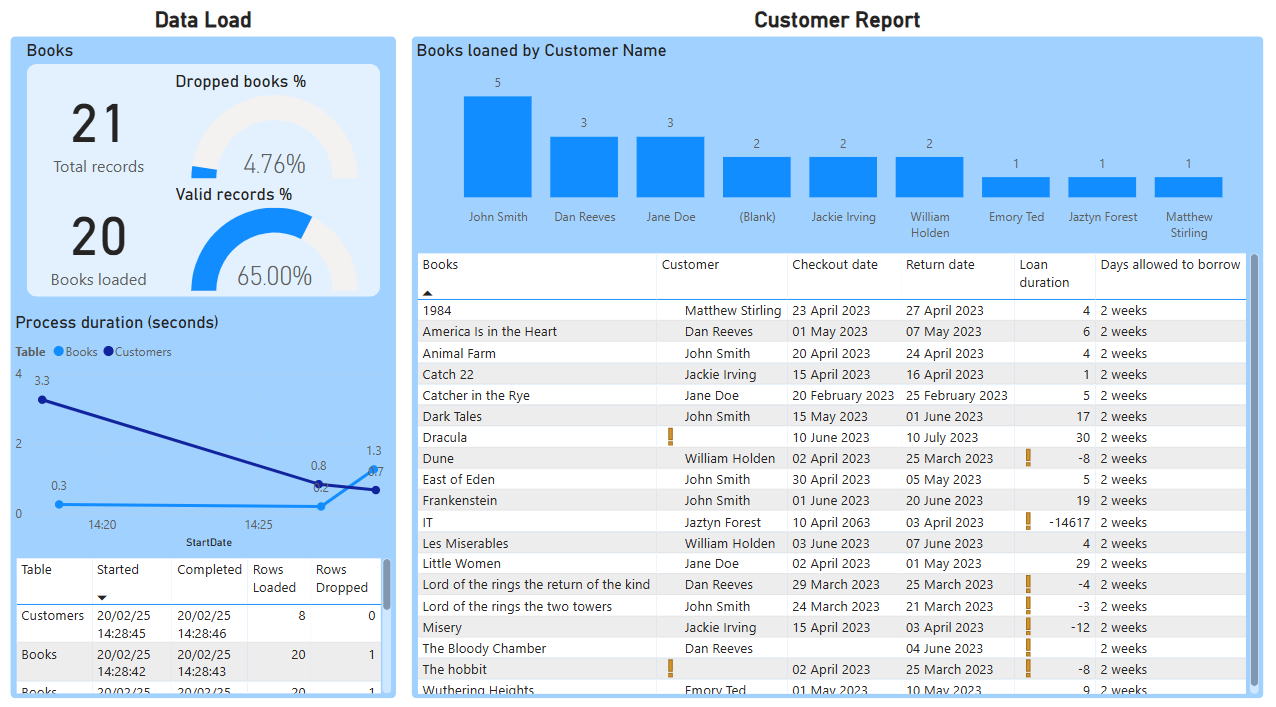
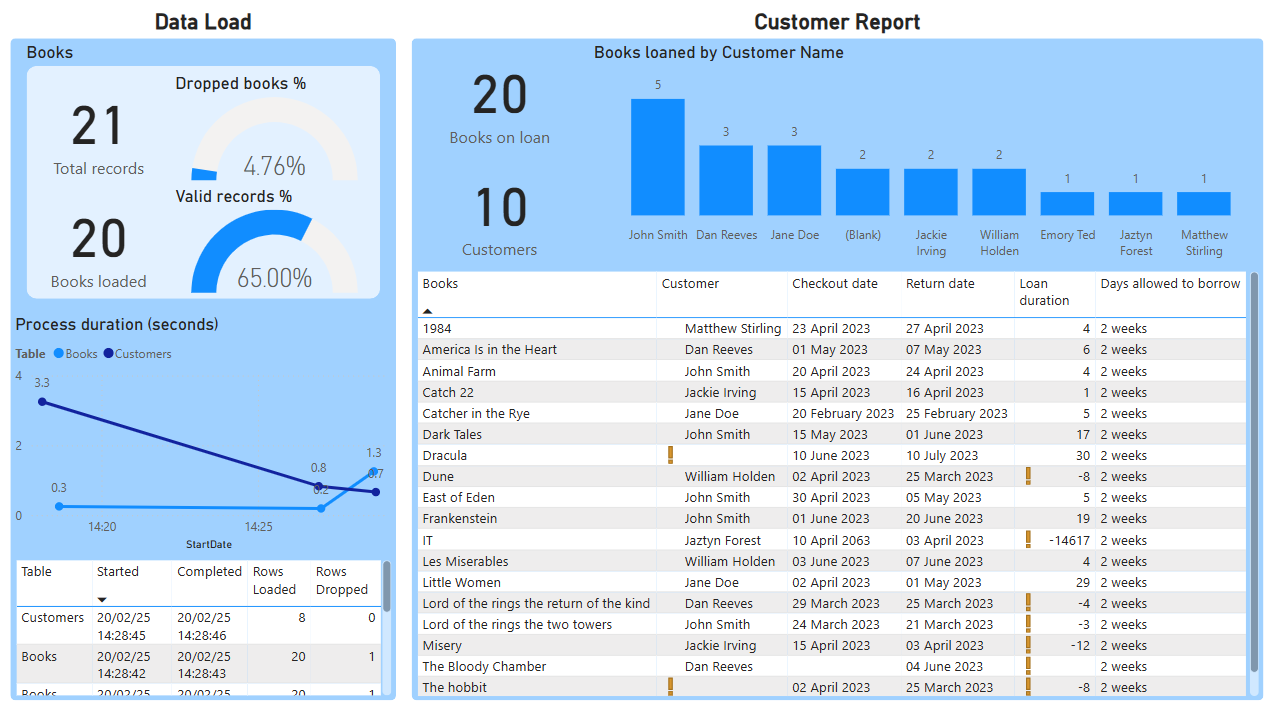
JM: Updated dashboard and documentation.

diff --git a/Documentation.md b/Documentation.md
@@ -86,8 +86,8 @@ To help understand the processed data, as well as monitor recent runs of the pro
 This will show:
 1. How many books have been loaded, and how many of those are valid.
 2. How long it has taken to process both the books and customer data
-3. How many books are lonaed to customers
-4. A full list of the books that are loaned, with details of when they were checked out, when they were retruned, and how long they were borrowed.
+3. How many books are loaned to customers, with the amount loaned to each customer specified
+4. A full list of the books that are loaned, with details of when they were checked out, when they were retruned, and how long they were borrowed
 
 # Docker
 This application can be set up us a Docker container, making use of the [Dockerfile](./Dockerfile) and [.dockerignore](./.dockerignore) files.
